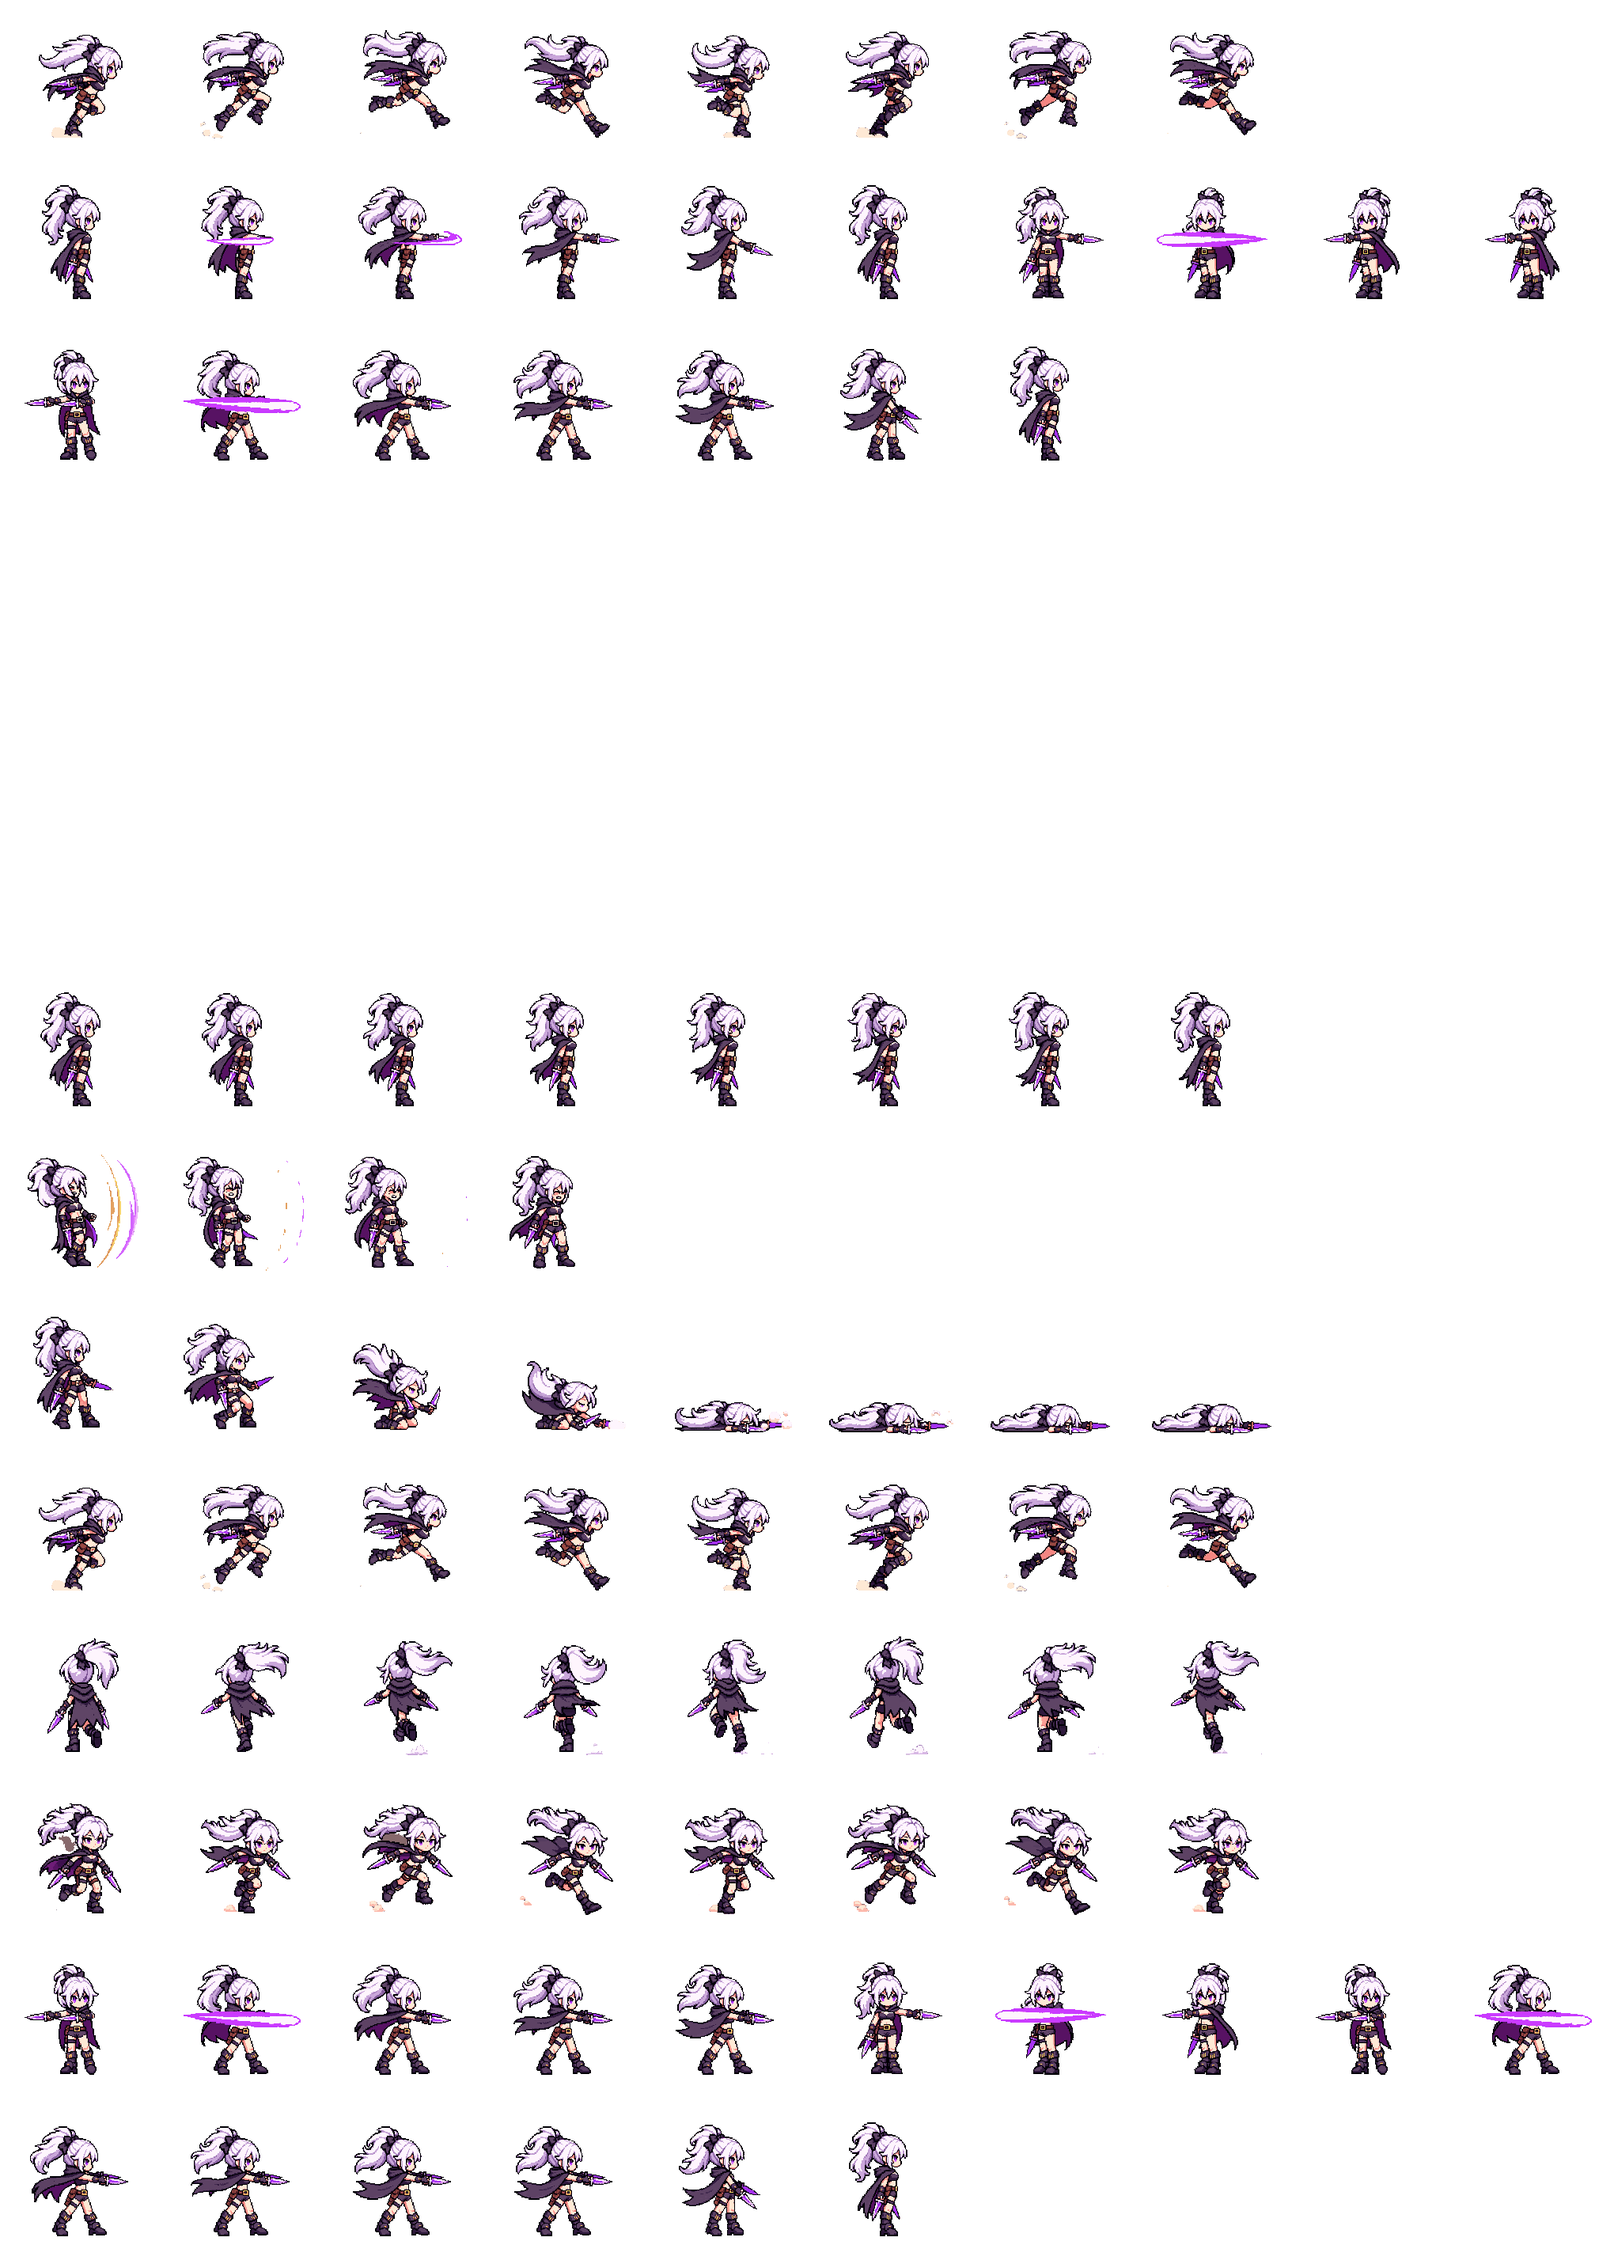
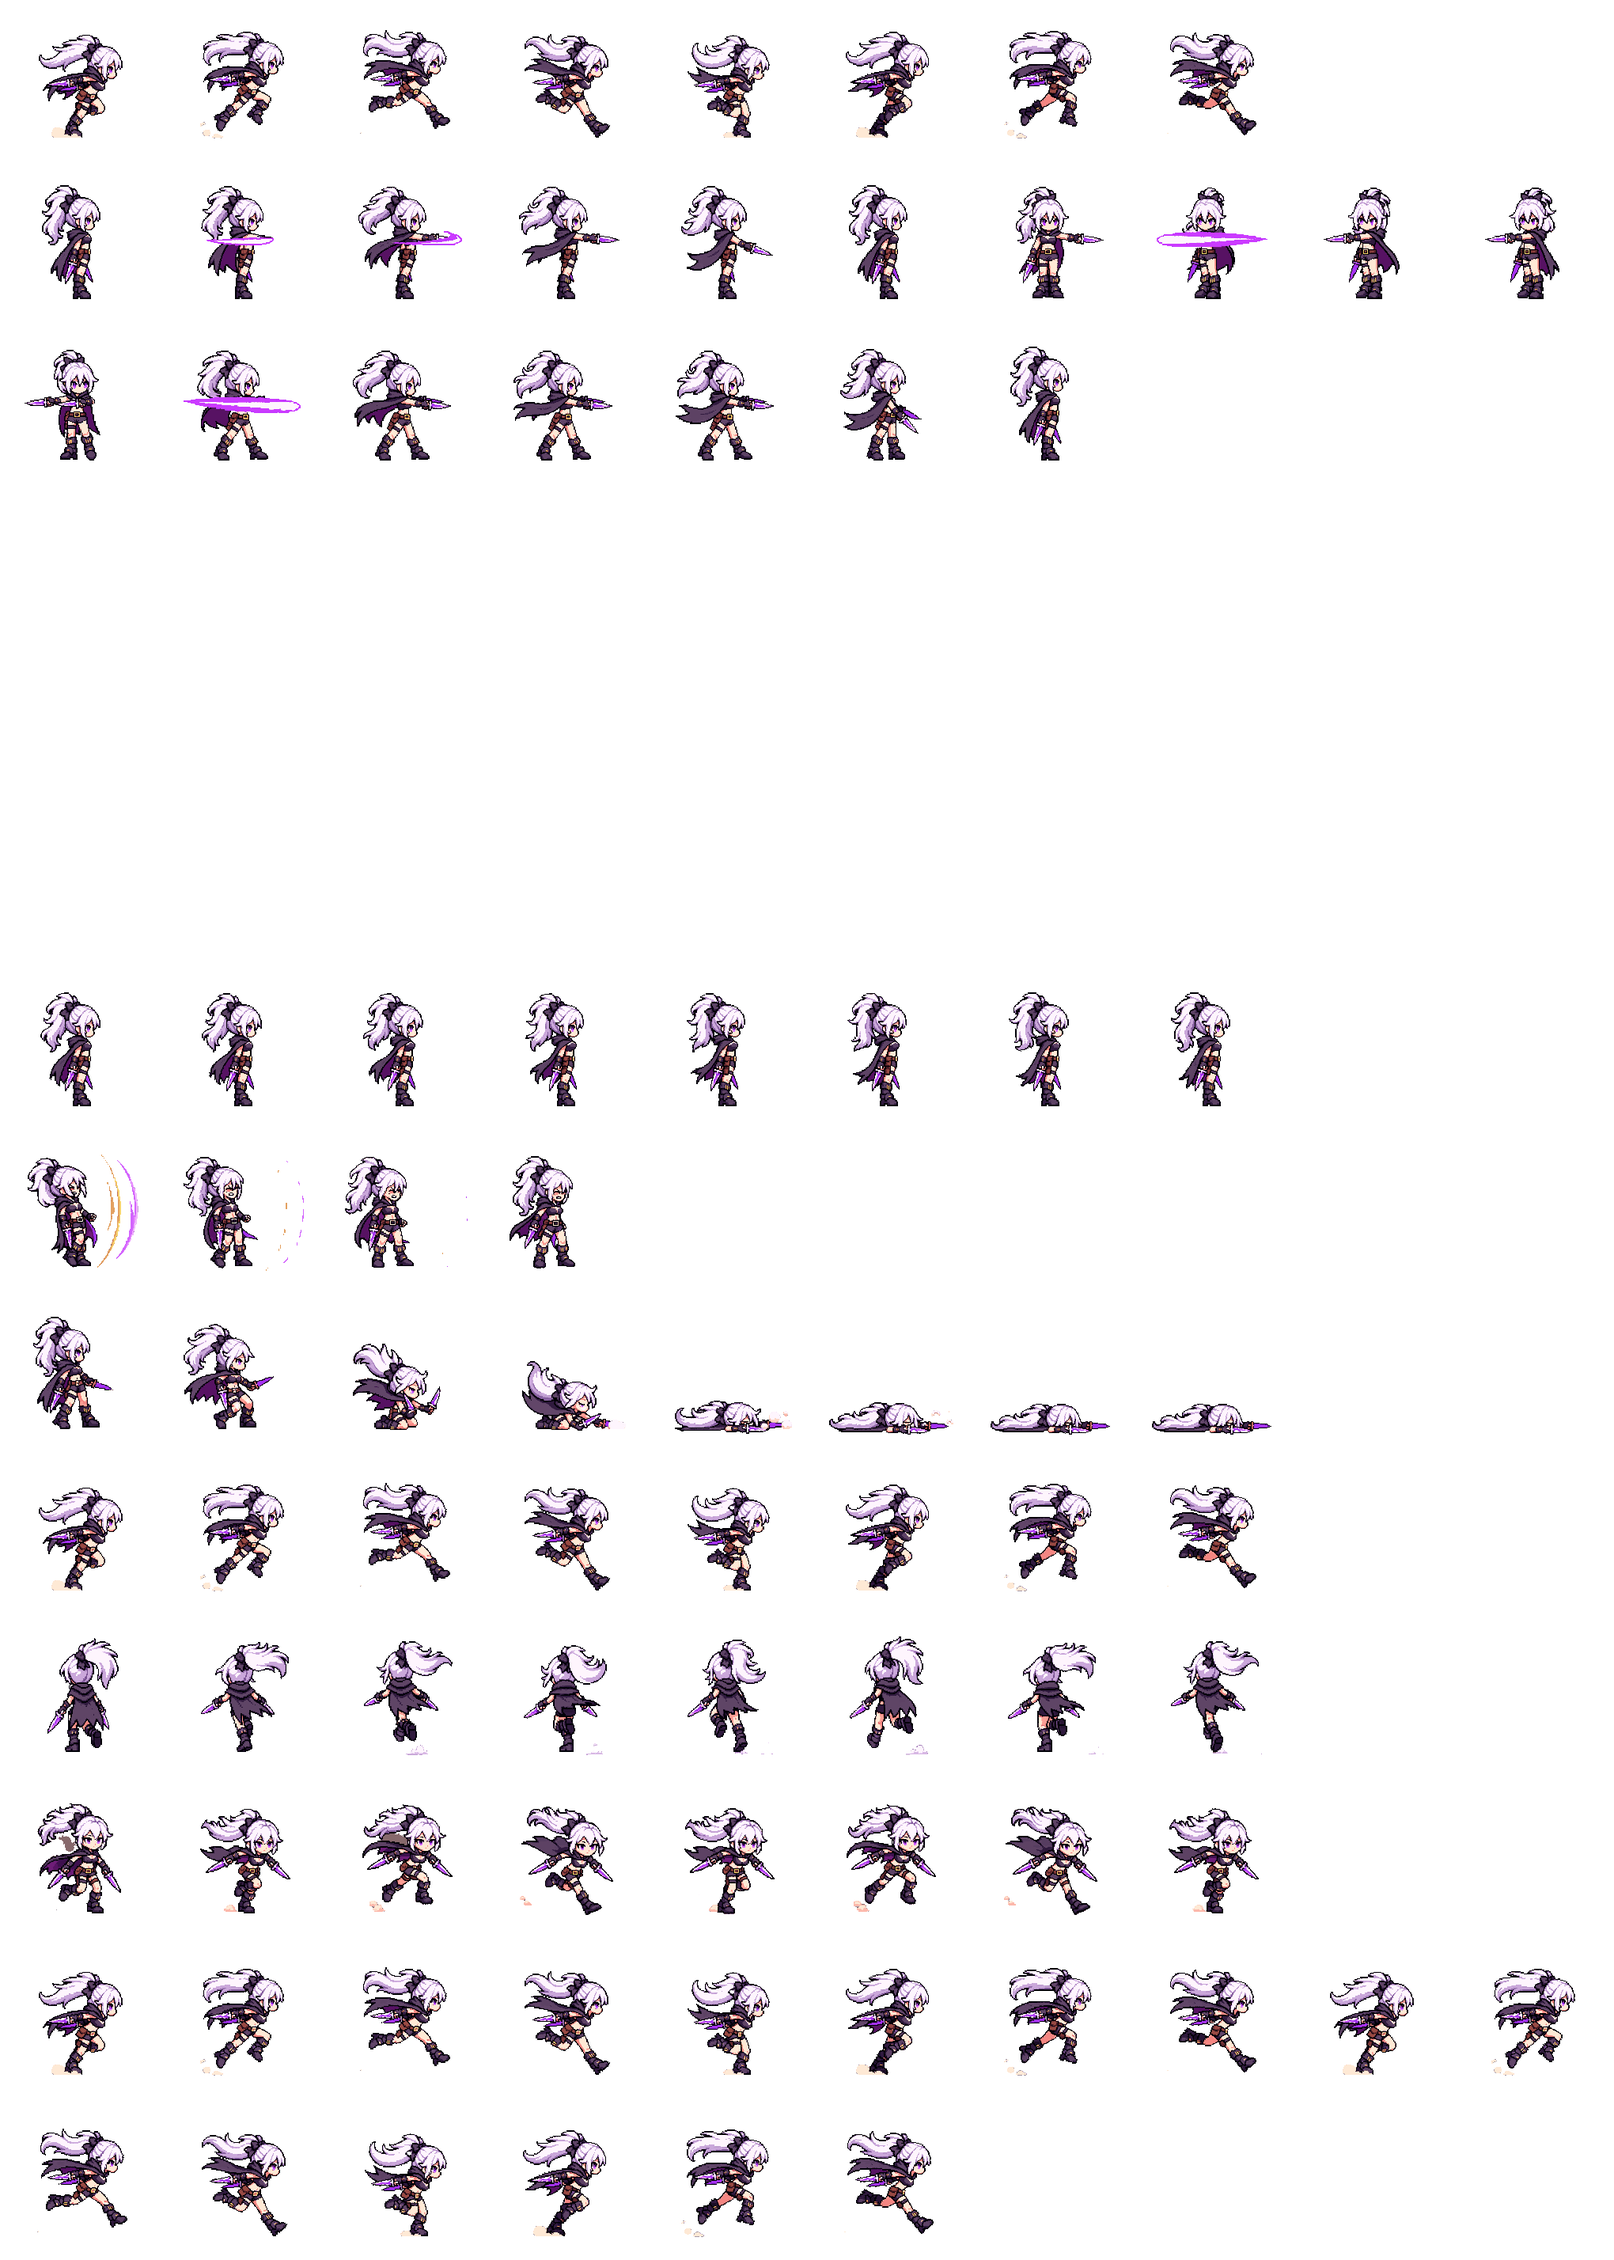
map: dagger girl dash-through skill, blink, hero swap button
Claude-Session: https://claude.ai/code/session_01TXxUxQ6wjWh66ESj3NLopA

diff --git a/map.html b/map.html
@@ -19,7 +19,7 @@
 <canvas id="cv"></canvas>
 <div id="hint">เดิน: WASD / ลูกศร · ฟัน: J / Space (กดย้ำ = คอมโบ) · หมุนฟัน: K · กลิ้งหลบ: L / Shift · มือถือ: ลากนิ้วเดิน ปุ่ม ⚔ 🌀 💨</div>
 <button id="fs" title="เต็มจอ">⛶</button>
-<button id="atk" title="ฟัน">⚔</button><button id="spin" title="หมุนฟัน">🌀</button><button id="roll" title="กลิ้งหลบ">💨</button>
+<button id="atk" title="ฟัน">⚔</button><button id="spin" title="หมุนฟัน">🌀</button><button id="roll" title="กลิ้งหลบ">💨</button><button id="sw" title="เปลี่ยนตัวละคร" style="position:fixed;left:10px;bottom:10px;z-index:5;height:38px;padding:0 12px;border-radius:10px;border:2px solid #0008;background:#3a2c58;color:#fff;font:600 13px system-ui">👤 เปลี่ยนตัว</button>
 <div id="load">กำลังโหลดแมพ…</div>
 <script>
 // Map 1 walk test (owner 2026-11-11 "แมพเอาให้เสร็จก่อน1แมพละฉันจะลองเดินดู"). Assets from tools/art/td_map.py (art/td/map1/):
@@ -50,7 +50,7 @@ const ST = {lv: 1, xp: 0, kills: 0, combo: 0, ct: 0, up: 0};
 const need = () => 20 + ST.lv * 15;
 function attack() { BUF = .3; }
 const HPMAX = () => 100 + (ST.lv - 1) * 15, CD = {spin: 0, roll: 0};
-function act(k) { if (P.dead || P.act || !(CHB && CHB.run)) return; if (CD[k] > 0) return; if (k === 'spin' && P.atk && !P.atk.end) return; P.atk = null; BUF = 0; P.act = {k, t: 0, h: 0}; CD[k] = k === 'spin' ? 5 : 1.1; if (k === 'roll') P.inv = .45; }
+function act(k) { if (P.dead || P.act || !(CHB && CHB.run)) return; if (CD[k] > 0) return; if (k === 'spin' && P.atk && !P.atk.end) return; P.atk = null; BUF = 0; P.act = {k, t: 0, h: 0}; CD[k] = k === 'spin' ? (CHB.dg ? 4 : 5) : (CHB.dg ? .7 : 1.1); if (k === 'roll') P.inv = .45; }
 function spinHit(big) { let any = 0; const dm = Math.round(22 * (1 + (ST.lv - 1) * .12));
   for (const m of mobs) { if (m.dead || m.gone) continue; const dx = m.x - P.x, dy = (m.y - P.y) * 1.6, d = Math.hypot(dx, dy); if (d < 78) { any = 1; m.hp -= dm; m.fl = .12; m.vx = dx / (d || 1) * (big ? 220 : 90); m.vy = dy / (d || 1) * (big ? 130 : 50); m.ag = 6;
     NUM.push({x: m.x, y: m.y - M.mobs[m.k].h, v: dm, t: 0, big}); for (let k = 0; k < 6; k++) FXS.push({x: m.x, y: m.y - M.mobs[m.k].h * .5, vx: (Math.random() - .5) * 200, vy: -Math.random() * 130, t: 0, c: '#bfe9ff'}); if (m.hp <= 0) kill(m); } }
@@ -121,7 +121,7 @@ async function boot() {
   const ld = [];
   if (CHB) ld.push(img(A + CHB.f).then(i => CHB.im = i));
   if (CHB && CHB.pl) { const r = new Image(); r.onload = () => CHB.run = r; r.src = 'art/poses/combo/' + (CHB.sheet || 'chibi_pl.png'); }
-  if (CHB && CHB.dg) fetch('fx/manifest.json').then(r => r.json()).then(m => { for (const k of ['dslash7_n', 'bigcut0_n', 'dslashl7_n', 'dashhit_n']) { SPR[k] = m[k]; SPR[k].im = new Image(); SPR[k].im.src = 'fx/' + k + '.png'; } });   // her neon violet cut effects (owner's pick)   // PixelLab run cycle (row 0, 8 frames of 204 px, feet 103,174): used for every moving direction but straight up / down until those are made
+  if (CHB && CHB.dg) fetch('fx/manifest.json').then(r => r.json()).then(m => { for (const k of ['dslash7_n', 'bigcut0_n', 'dslashl7_n', 'dashhit_n', 'dg_tele_n', 'xcut_n']) { SPR[k] = m[k]; SPR[k].im = new Image(); SPR[k].im.src = 'fx/' + k + '.png'; } });   // her neon violet cut effects (owner's pick)   // PixelLab run cycle (row 0, 8 frames of 204 px, feet 103,174): used for every moving direction but straight up / down until those are made
   ld.push(loadMap(MAPID));
   await Promise.all(ld);
   document.getElementById('load').remove(); resize(); cam.x = P.x - VW / 2; cam.y = P.y - VH / 2; requestAnimationFrame(frame);
@@ -150,7 +150,7 @@ document.getElementById('fs').onclick = () => {
 const SPD = 150;
 function step(dt) {
   for (const n of NUM) n.t += dt; while (NUM.length && NUM[0].t > .8) NUM.shift();
-  for (const f of FXS) { f.t += dt; if (!f.ring && !f.spr) { f.x += f.vx * dt; f.y += f.vy * dt; f.vy += 380 * dt; } } while (FXS.length && FXS[0].t > .45) FXS.shift();
+  for (const f of FXS) { f.t += dt; if (!f.ring && !f.spr) { f.x += f.vx * dt; f.y += f.vy * dt; f.vy += 380 * dt; } } while (FXS.length && FXS[0].t > (FXS[0].spr ? 1 : .45)) FXS.shift();
   SHK *= Math.pow(.002, dt); ST.ct -= dt; if (ST.ct <= 0) ST.combo = 0; ST.up -= dt; BUF -= dt;
   BAN -= dt;
   if (TRV) { TRV.t += dt; if (TRV.ok && TRV.t > .25) { TRV.out = (TRV.out || 0) + dt; if (TRV.out > .3) TRV = null; } return; }   // the world stands still while the next map loads
@@ -166,7 +166,15 @@ function step(dt) {
   if (P.inv > 0) P.inv -= dt; CD.spin -= dt; CD.roll -= dt;
   if (P.dead) { P.dead -= dt; P.mv = 0; if (P.dead <= 0) { P.dead = 0; P.x = M.start[0]; P.y = M.start[1]; P.hp = HPMAX(); P.inv = 2; } ix = iy = 0; BUF = 0; }
   else if (P.act) { const a = P.act; a.t += dt; P.mv = 0;
-    if (a.k === 'roll') { if (!a.d) { const l0 = Math.hypot(ix, iy); a.d = l0 > .2 ? [ix / l0, iy / l0] : [P.face, 0]; if (Math.abs(a.d[0]) > .2) P.face = a.d[0] > 0 ? 1 : -1; } move(P, a.d[0] * 330 * dt * (a.t < .32 ? 1 : .3), a.d[1] * 330 * dt * (a.t < .32 ? 1 : .3), 7); if (a.t >= .44) P.act = null; }
+    if (a.k === 'roll') { if (!a.d) { const l0 = Math.hypot(ix, iy); a.d = l0 > .2 ? [ix / l0, iy / l0] : [P.face, 0]; if (Math.abs(a.d[0]) > .2) P.face = a.d[0] > 0 ? 1 : -1; } const rv = CHB.dg ? (a.t < .16 ? 620 : 60) : 330 * (a.t < .32 ? 1 : .3); move(P, a.d[0] * rv * dt, a.d[1] * rv * dt, 7); if (a.t >= (CHB.dg ? .26 : .44)) P.act = null; }   // dagger girl: a short fast blink instead of a roll
+    else if (a.k === 'spin' && CHB.dg) {               // dagger girl: dash straight through the pack, every monster on the line is cut twice (the neon teleport-strike effect on each)
+      if (!a.d) { a.d = [P.face, 0]; a.x0 = P.x; P.inv = .6; FXS.push({spr: 'dashhit_n', sc: .6, x: P.x, y: P.y - 30, face: P.face, t: 0}); }
+      if (a.t < .2) move(P, P.face * 780 * dt, 0, 7);
+      else if (!a.h) { a.h = 1; const x0 = Math.min(a.x0, P.x) - 24, x1 = Math.max(a.x0, P.x) + 24, dm = Math.round(30 * (1 + (ST.lv - 1) * .12)); let any = 0;
+        for (const m of mobs) { if (m.dead || m.gone || m.x < x0 || m.x > x1 || Math.abs(m.y - P.y) > 36) continue; any = 1; m.hp -= dm; m.fl = .15; m.vx = -P.face * 60; m.vy = 0; m.ag = 6; NUM.push({x: m.x, y: m.y - M.mobs[m.k].h, v: dm, t: 0, big: 1});
+          FXS.push({spr: 'dg_tele_n', sc: .55, x: m.x, y: m.y - M.mobs[m.k].h * .5, face: P.face, t: -.0}); if (m.hp <= 0) kill(m); }
+        if (!any) FXS.push({spr: 'xcut_n', sc: .5, x: (a.x0 + P.x) / 2, y: P.y - 30, face: P.face, t: 0}); else { HS = .1; SHK = 5; ST.combo++; ST.ct = 1.5; } }
+      if (a.t >= .42) P.act = null; }
     else if (a.k === 'spin') { const i = a.t / .05 | 0; if (i >= 6 && a.h < 1) { a.h = 1; spinHit(0); } if (i >= 10 && a.h < 2) { a.h = 2; spinHit(1); } if (a.t >= .8) P.act = null; }
     else if (a.t >= .3) P.act = null;
     ix = iy = 0; BUF = 0; }
@@ -241,6 +249,7 @@ function drawHero() {
     if (CHB.run && (P.dead || P.act || (!P.atk && (P.mv ? (P.d === 6 || P.d === 2) : v === 1)))) {   // PixelLab clips: death / hurt / roll / spin, run up / down, idle (side). Cells in tools/art/pl_combo_sheet.py
       const a = P.act, f = P.dead ? 80 + Math.min(7, (2.4 - P.dead) * 9 | 0) : a ? (a.k === 'roll' ? 90 + Math.min(7, a.t / .055 | 0) : a.k === 'spin' ? 120 + Math.min(15, a.t / .05 | 0) : 70 + Math.min(3, a.t / .075 | 0)) : P.mv ? (P.d === 6 ? 100 : 110) + (P.t * 13 | 0) % 8 : 60 + (P.t * 6 | 0) % 8;
       const side = P.dead || a || !P.mv; shadow(x, y, CHB.s); if (P.inv > 0 && !P.dead && !a && (P.inv * 14 | 0) % 2) ctx.globalAlpha = .55;
+      if (CHB.dg && a && a.d && (a.k === 'roll' || a.k === 'spin')) for (let g = 3; g >= 1; g--) { ctx.save(); ctx.globalAlpha = .1 + .08 * (3 - g); ctx.translate(x - a.d[0] * g * 16, y - a.d[1] * g * 12); ctx.scale(P.face * .5, .5); ctx.drawImage(CHB.run, f % 10 * 204, (f / 10 | 0) * 204, 204, 204, -103, -174, 204, 204); ctx.restore(); }
       ctx.save(); ctx.translate(x, y); ctx.scale((side ? P.face : 1) * .5, .5); ctx.drawImage(CHB.run, f % 10 * 204, (f / 10 | 0) * 204, 204, 204, -103, -174, 204, 204); ctx.restore(); ctx.globalAlpha = 1; return; }
     if (CHB.run && P.atk) { const a = P.atk, f = (a.end ? (a.v ? CV[a.v].en : CEND)[a.i] : (a.v ? CV[a.v].st : CSTEP)[a.n].f[a.i]).f; shadow(x, y, CHB.s); ctx.save(); ctx.translate(x, y); ctx.scale((a.v ? 1 : P.face) * .5, .5); ctx.drawImage(CHB.run, f % 10 * 204, (f / 10 | 0) * 204, 204, 204, -103, -174, 204, 204); ctx.restore(); return; }
     if (CHB.run && P.mv && v !== 0 && !(v === 2 && (P.d === 6))) { const f = (P.t * 13 | 0) % 8; shadow(x, y, CHB.s); ctx.save(); ctx.translate(x, y); ctx.scale(fl * .5, .5); ctx.drawImage(CHB.run, f * 204, 0, 204, 204, -103, -174, 204, 204); ctx.restore(); return; }
@@ -316,6 +325,8 @@ function frame(t) {
   }
   requestAnimationFrame(frame);
 }
+{ const sw = document.getElementById('sw'), dg = CHB && CHB.dg; sw.textContent = dg ? '👤 นักดาบ' : '👤 สาวมีดคู่'; sw.onclick = () => { const u = new URLSearchParams(location.search); u.set('hero', dg ? 'chibi16' : 'dagger'); if (!u.get('px')) u.set('px', '1'); u.set('map', MAPID); location.search = u.toString(); };
+  if (dg) { document.getElementById('hint').textContent = 'เดิน: WASD / ลูกศร · ฟัน: J / Space (กดย้ำ = 3 จังหวะ) · พุ่งทะลุ: K · แวบหลบ: L / Shift · มือถือ: ลากนิ้วเดิน ปุ่ม ⚔ 🌀 💨'; document.getElementById('spin').title = 'พุ่งทะลุ'; document.getElementById('roll').title = 'แวบหลบ'; } }
 window.GM = {P, ST, attack, act, CD, hurtHero, step, get mobs() { return mobs; }, frame, travel, get map() { return MAPID; }, get M() { return M; }, get busy() { return !!TRV; }};
 boot().catch(e => { document.getElementById('load').textContent = 'โหลดไม่ได้: ' + e; });
 </script>

diff --git a/tools/art/dagger_pl_sheet.py b/tools/art/dagger_pl_sheet.py
@@ -1,6 +1,6 @@
 # The dagger girl's PixelLab clips (character ea60ebea, canvas 204) packed like chibi_pl.png so map.html plays her with the same code.
 #   python3 tools/art/dagger_pl_sheet.py -> art/poses/combo/dagger_pl.png (10 columns of 204 px)
-# cells: run 0-7 · slash 10-26 (cell 10 + frame) · idle 60 · hurt 70 · death 80 · roll 90 (no roll clip yet: the run frames) · run north 100 · run south 110 · spin 120 (no clip yet: slash frames)
+# cells: run 0-7 · slash 10-26 (cell 10 + frame) · idle 60 · hurt 70 · death 80 · roll 90 (no roll clip yet: the run frames) · run north 100 · run south 110 · spin 120 (her K skill is a dash: the run frames)
 # Every frame is shifted by the same amount so her feet stand on x 103 like the swordsman's. Nothing is removed. The magenta trails PixelLab drew are
 # RECOLOURED to the neon violet the owner chose for her effects (hue only; raw frames stay in art/incoming/darkchibi/dagger/pl_char/char).
 import glob, numpy as np
@@ -22,5 +22,5 @@ for i, f in enumerate(fr('hurt', 'east')[1:]): put(70 + i, f)
 for i, f in enumerate(fr('death', 'east')[1:]): put(80 + i, f)
 for i, f in enumerate(fr('run_ns', 'north')[1:]): put(100 + i, f)
 for i, f in enumerate(fr('run_ns', 'south')[1:]): put(110 + i, f)
-for i in range(16): put(120 + i, sl[[10, 11, 12, 13, 14, 6, 7, 8, 10, 11, 12, 13, 14, 14, 15, 16][i]])
+for i in range(16): put(120 + i, run[i % 8])   # the dash-through skill is played with the run frames + ghosts drawn by map.html
 sheet.save('art/poses/combo/dagger_pl.png', optimize=True); print('shift', dx, dy, sheet.size)
